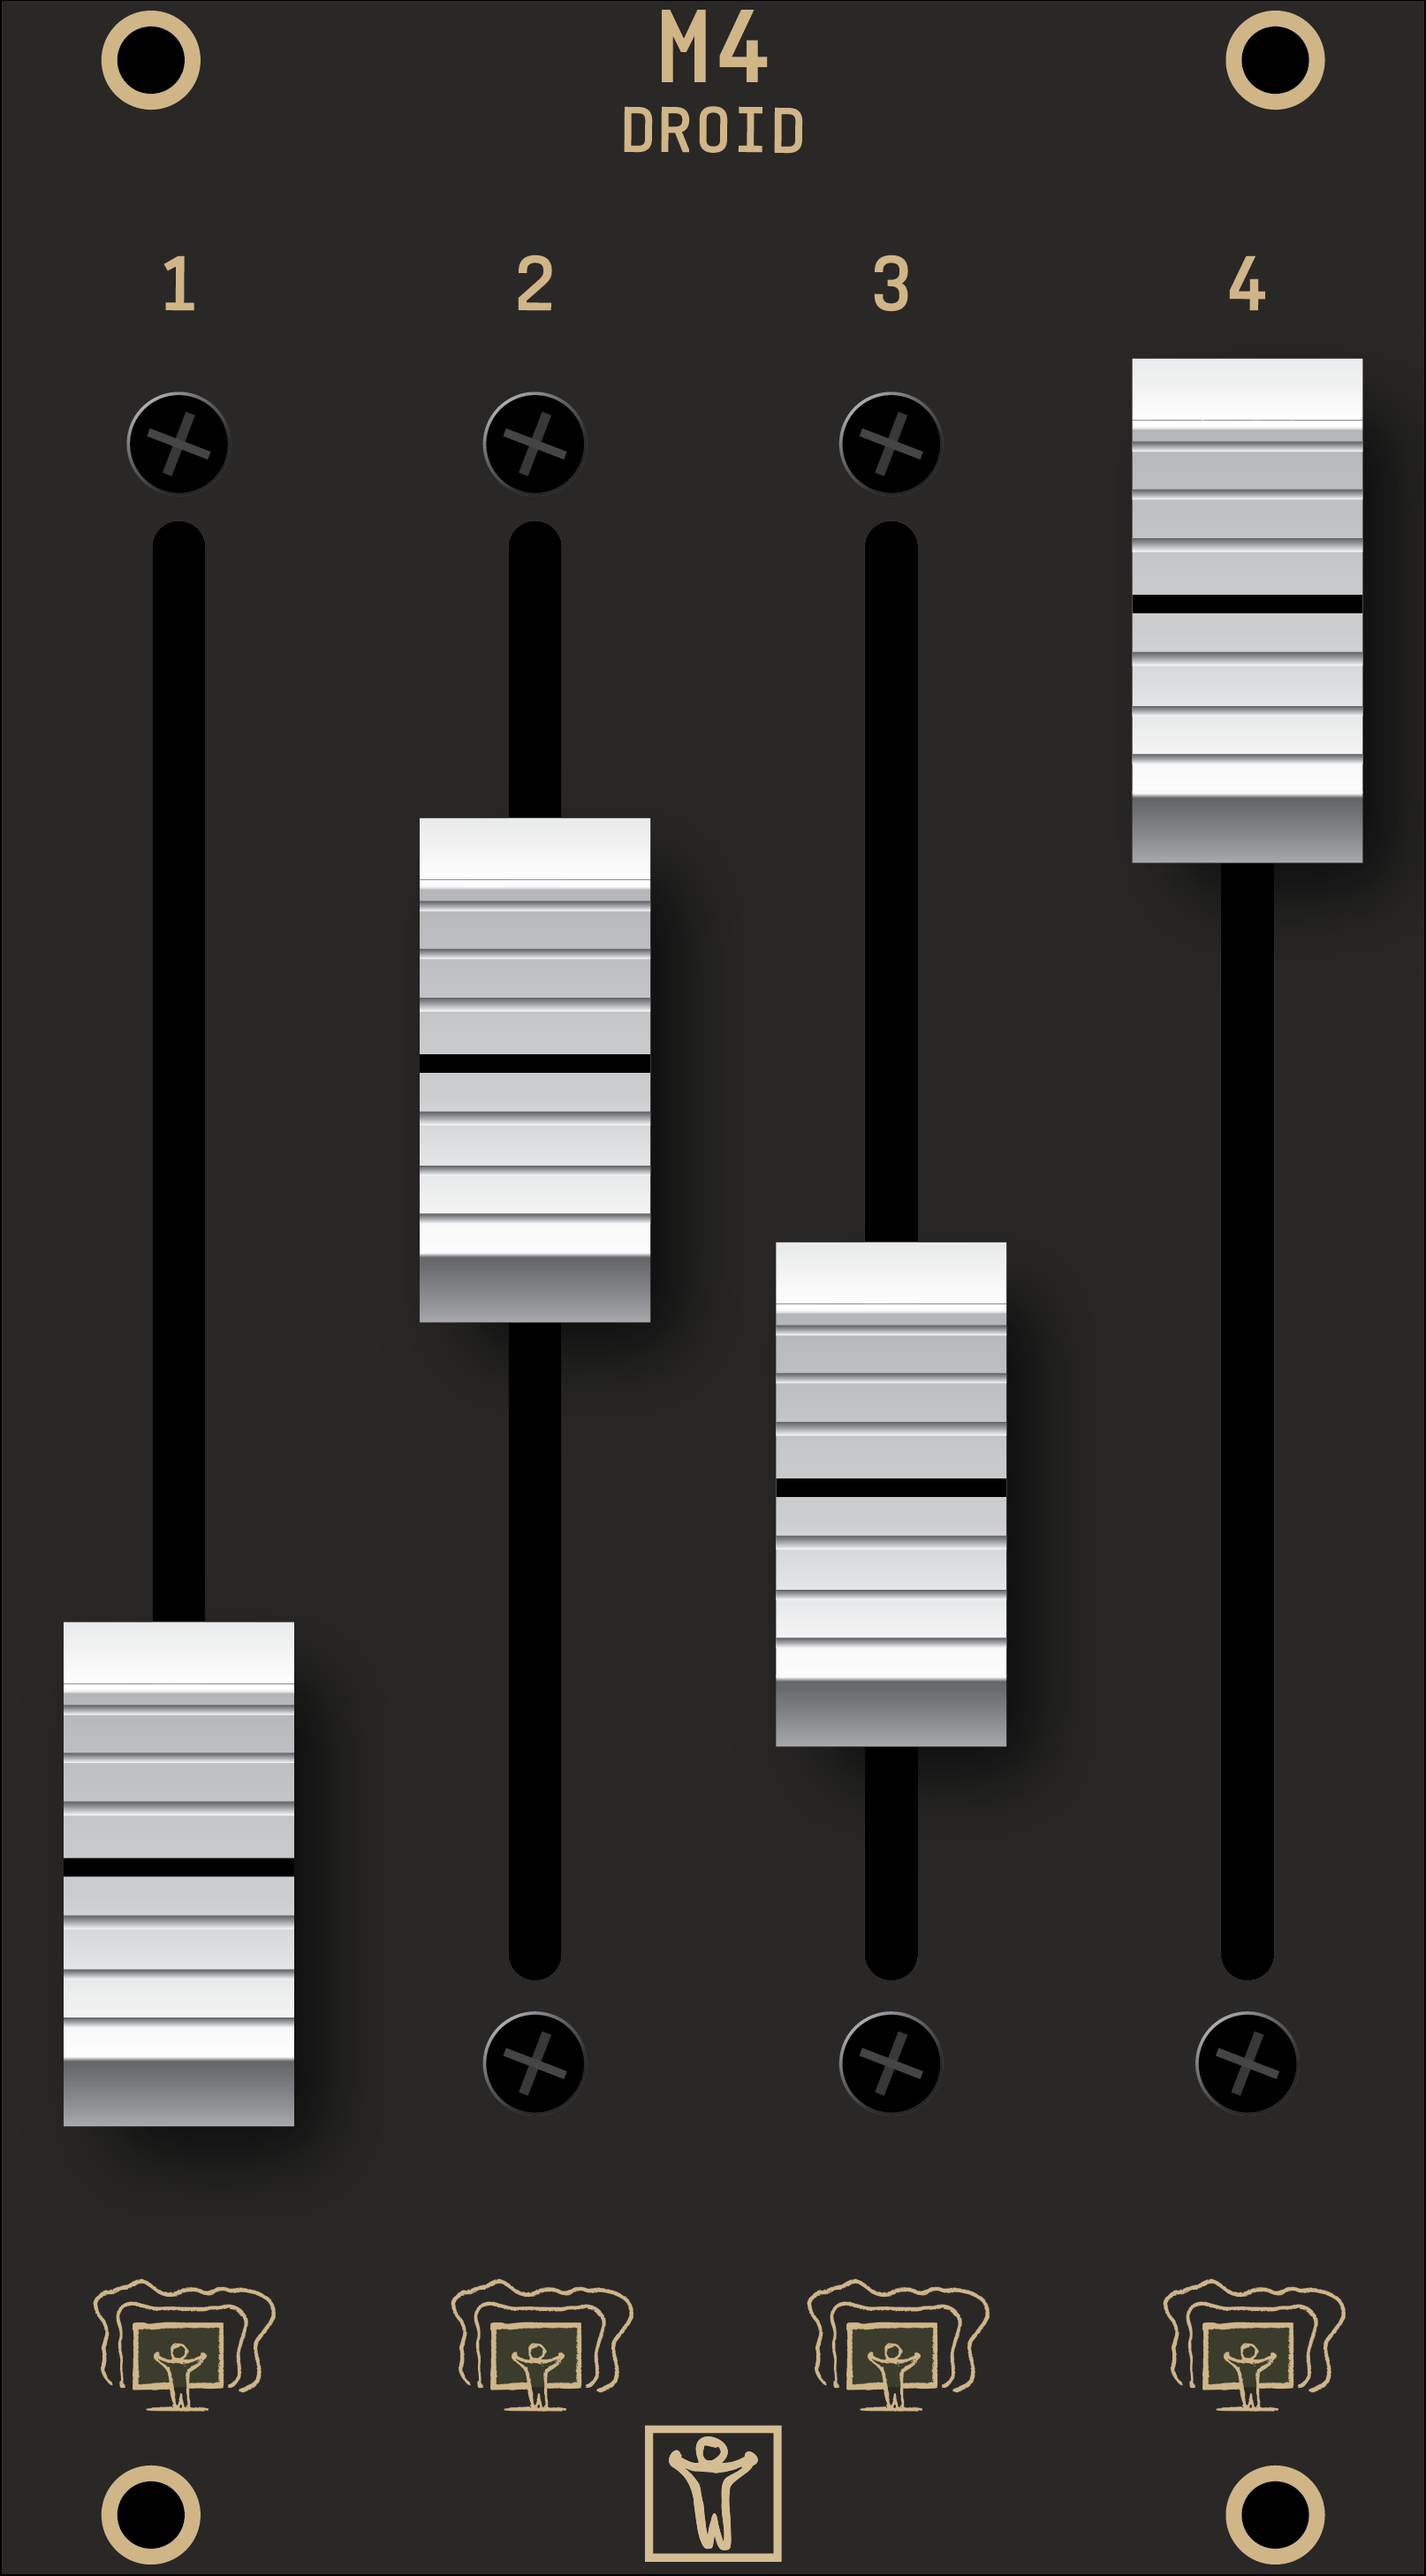
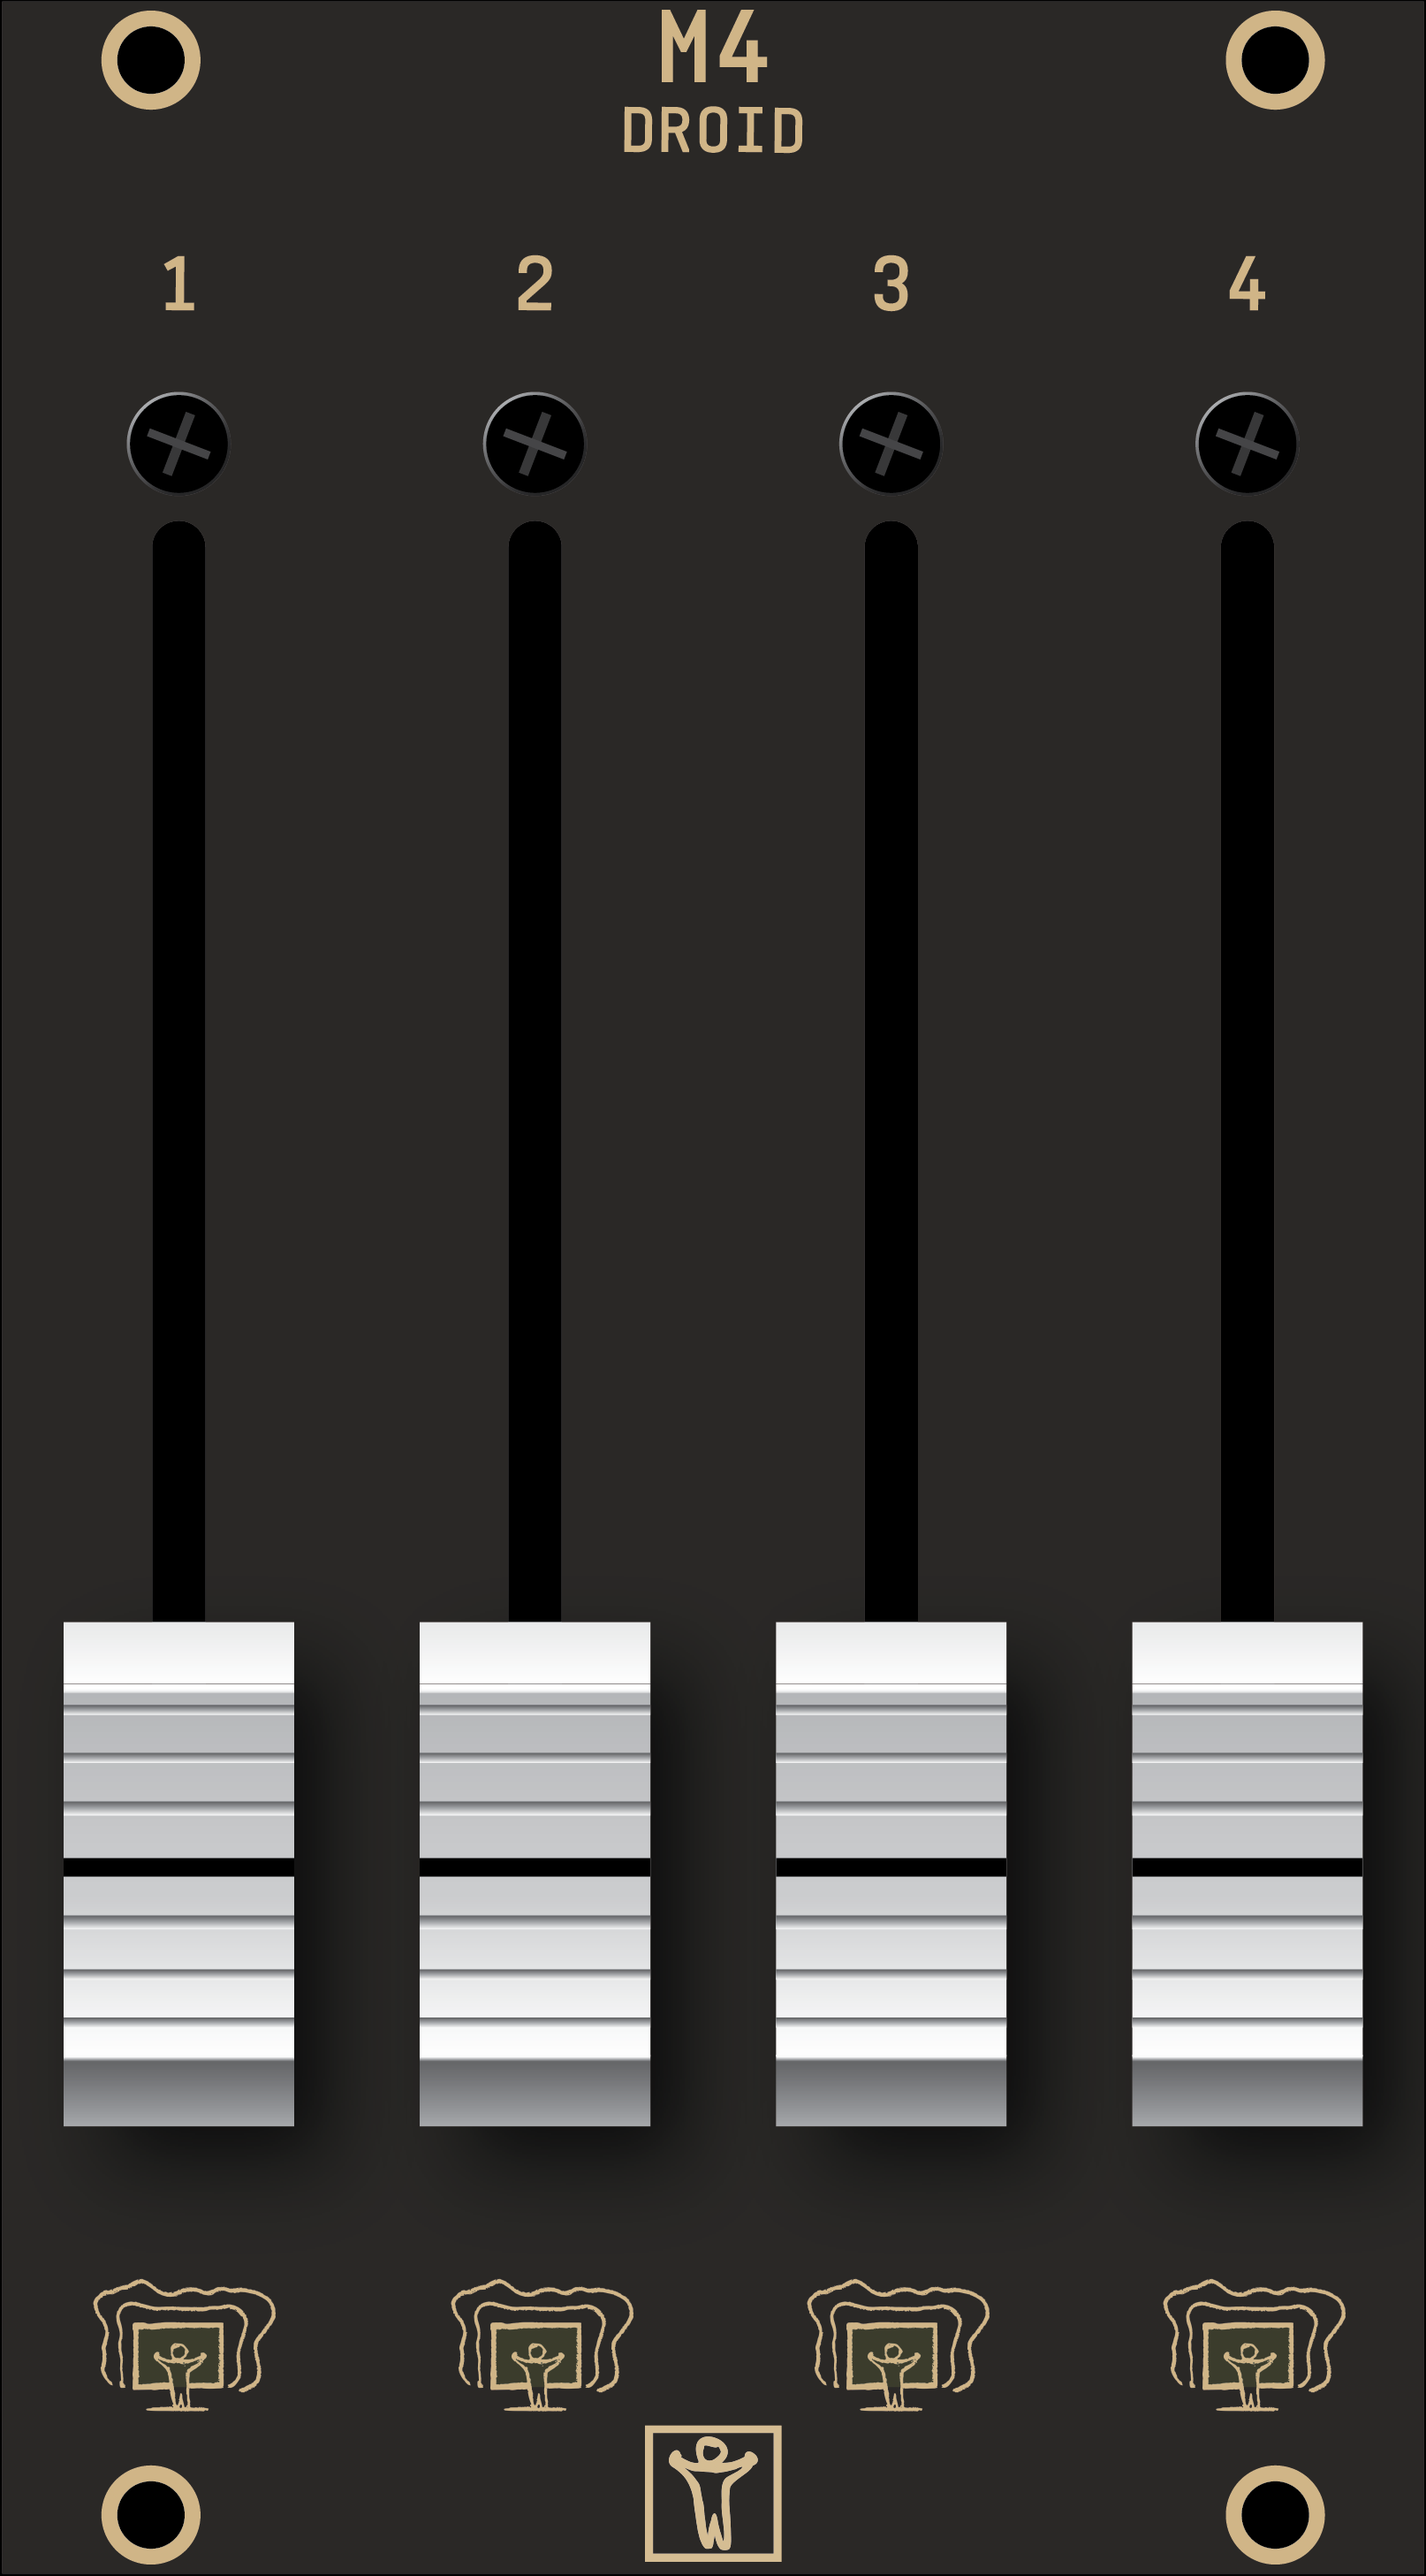
Labels nach oben

diff --git a/droidforge/modules/modulem4.cpp b/droidforge/modules/modulem4.cpp
@@ -11,13 +11,13 @@ unsigned ModuleM4::numRegisters(register_type_t type) const
 
 QPointF ModuleM4::registerPosition(register_type_t type, unsigned number) const
 {
-    const float faderPositions[4] = { 18.25, 10.35, 14.53, 5.90, };
+    // const float faderPositions[4] = { 18.25, 10.35, 14.53, 5.90, };
 
     float x = 3.50 * (number - 1) + 1.83;
     float y;
 
     if (type == REGISTER_POT) {
-        y = faderPositions[number - 1];
+        y = 18.27;
         x -= 0.1;
     }
     else
@@ -31,4 +31,12 @@ float ModuleM4::registerSize(register_type_t type, unsigned) const
         return CONTROL_M4_FADER_SIZE;
     else
         return CONTROL_M4_TOUCH_SIZE;
+}
+
+float ModuleM4::labelDistance(register_type_t type, unsigned) const
+{
+    if (type == REGISTER_POT)
+        return -15.34;
+    else
+        return -2.35;
 }

diff --git a/droidforge/modules/modulep2b8.cpp b/droidforge/modules/modulep2b8.cpp
@@ -40,9 +40,9 @@ float ModuleP2B8::registerSize(register_type_t type, unsigned) const
 float ModuleP2B8::labelDistance(register_type_t type, unsigned) const
 {
     if (type == REGISTER_POT)
-        return 0.5;
+        return -4.00;
     else
-        return 0.17;
+        return -2.62;
 }
 
 float ModuleP2B8::labelWidth(register_type_t type, unsigned) const

diff --git a/droidforge/modules/modulep4b2.cpp b/droidforge/modules/modulep4b2.cpp
@@ -35,9 +35,9 @@ float ModuleP4B2::registerSize(register_type_t type, unsigned) const
 float ModuleP4B2::labelDistance(register_type_t type, unsigned) const
 {
     if (type == REGISTER_POT)
-        return 0.5;
+        return -4.00;
     else
-        return 0.17;
+        return -2.62;
 }
 
 float ModuleP4B2::labelWidth(register_type_t type, unsigned) const

diff --git a/droidforge/modules/modulemaster.h b/droidforge/modules/modulemaster.h
@@ -15,6 +15,9 @@ protected:
     QPointF registerPosition(register_type_t type, unsigned number) const;
     float registerSize(register_type_t type, unsigned number) const;
     bool labelNeedsBackground(register_type_t, unsigned) const { return true; };
+    float labelDistance(register_type_t, unsigned) const; // in HP
 };
+
+
 
 #endif // MODULEMASTER_H

diff --git a/droidforge/modules/modules10.cpp b/droidforge/modules/modules10.cpp
@@ -31,9 +31,9 @@ float ModuleS10::registerSize(register_type_t, unsigned number) const
 float ModuleS10::labelDistance(register_type_t, unsigned number) const
 {
     if (number <= 2)
-        return 0.5;
+        return -4.00;
     else
-        return 0.47;
+        return -2.31;
 }
 
 float ModuleS10::labelWidth(register_type_t, unsigned number) const

diff --git a/droidforge/modules/modulep10.cpp b/droidforge/modules/modulep10.cpp
@@ -32,9 +32,9 @@ float ModuleP10::registerSize(register_type_t, unsigned number) const
 float ModuleP10::labelDistance(register_type_t, unsigned number) const
 {
     if (number <= 2)
-        return 0.5;
+        return -4.00;
     else
-        return 0.4;
+        return -2.05;
 }
 
 float ModuleP10::labelWidth(register_type_t, unsigned number) const

diff --git a/droidforge/modules/moduleg8.h b/droidforge/modules/moduleg8.h
@@ -16,6 +16,7 @@ protected:
     QPointF registerPosition(register_type_t type, unsigned number) const;
     float registerSize(register_type_t type, unsigned number) const;
     bool labelNeedsBackground(register_type_t, unsigned) const { return true; };
+    float labelDistance(register_type_t, unsigned) const;; // in HP
 };
 
 #endif // MODULEG8_H

diff --git a/droidforge/modules/modulex7.h b/droidforge/modules/modulex7.h
@@ -16,6 +16,7 @@ protected:
     QPointF registerPosition(register_type_t type, unsigned number) const;
     float registerSize(register_type_t type, unsigned number) const;
     bool labelNeedsBackground(register_type_t, unsigned) const { return true; };
+    float labelDistance(register_type_t, unsigned) const; // in HP
 };
 
 #endif // MODULEX7_H

diff --git a/droidforge/modules/modulem4.h b/droidforge/modules/modulem4.h
@@ -14,6 +14,7 @@ public:
 protected:
     QPointF registerPosition(register_type_t type, unsigned number) const;
     float registerSize(register_type_t type, unsigned number) const;
+    float labelDistance(register_type_t, unsigned) const; // in HP
 };
 
 #endif // MODULEM4_H

diff --git a/droidforge/modules/modulex7.cpp b/droidforge/modules/modulex7.cpp
@@ -42,6 +42,11 @@ float ModuleX7::registerSize(register_type_t type, unsigned) const
 
 }
 
+float ModuleX7::labelDistance(register_type_t, unsigned) const
+{
+    return -2.45;
+}
+
 unsigned ModuleX7::numberOffset(register_type_t type) const
 {
     if (type == REGISTER_GATE)

diff --git a/droidforge/modules/modulemaster.cpp b/droidforge/modules/modulemaster.cpp
@@ -47,3 +47,8 @@ float ModuleMaster::registerSize(register_type_t type, unsigned) const
     else
         return CONTROL_JACK_SIZE;
 }
+
+float ModuleMaster::labelDistance(register_type_t, unsigned) const
+{
+    return -2.45;
+}

diff --git a/droidforge/modules/moduleg8.cpp b/droidforge/modules/moduleg8.cpp
@@ -45,3 +45,8 @@ float ModuleG8::registerSize(register_type_t type, unsigned) const
     else
         return CONTROL_JACK_SIZE;
 }
+
+float ModuleG8::labelDistance(register_type_t, unsigned) const
+{
+    return -2.45;
+}
